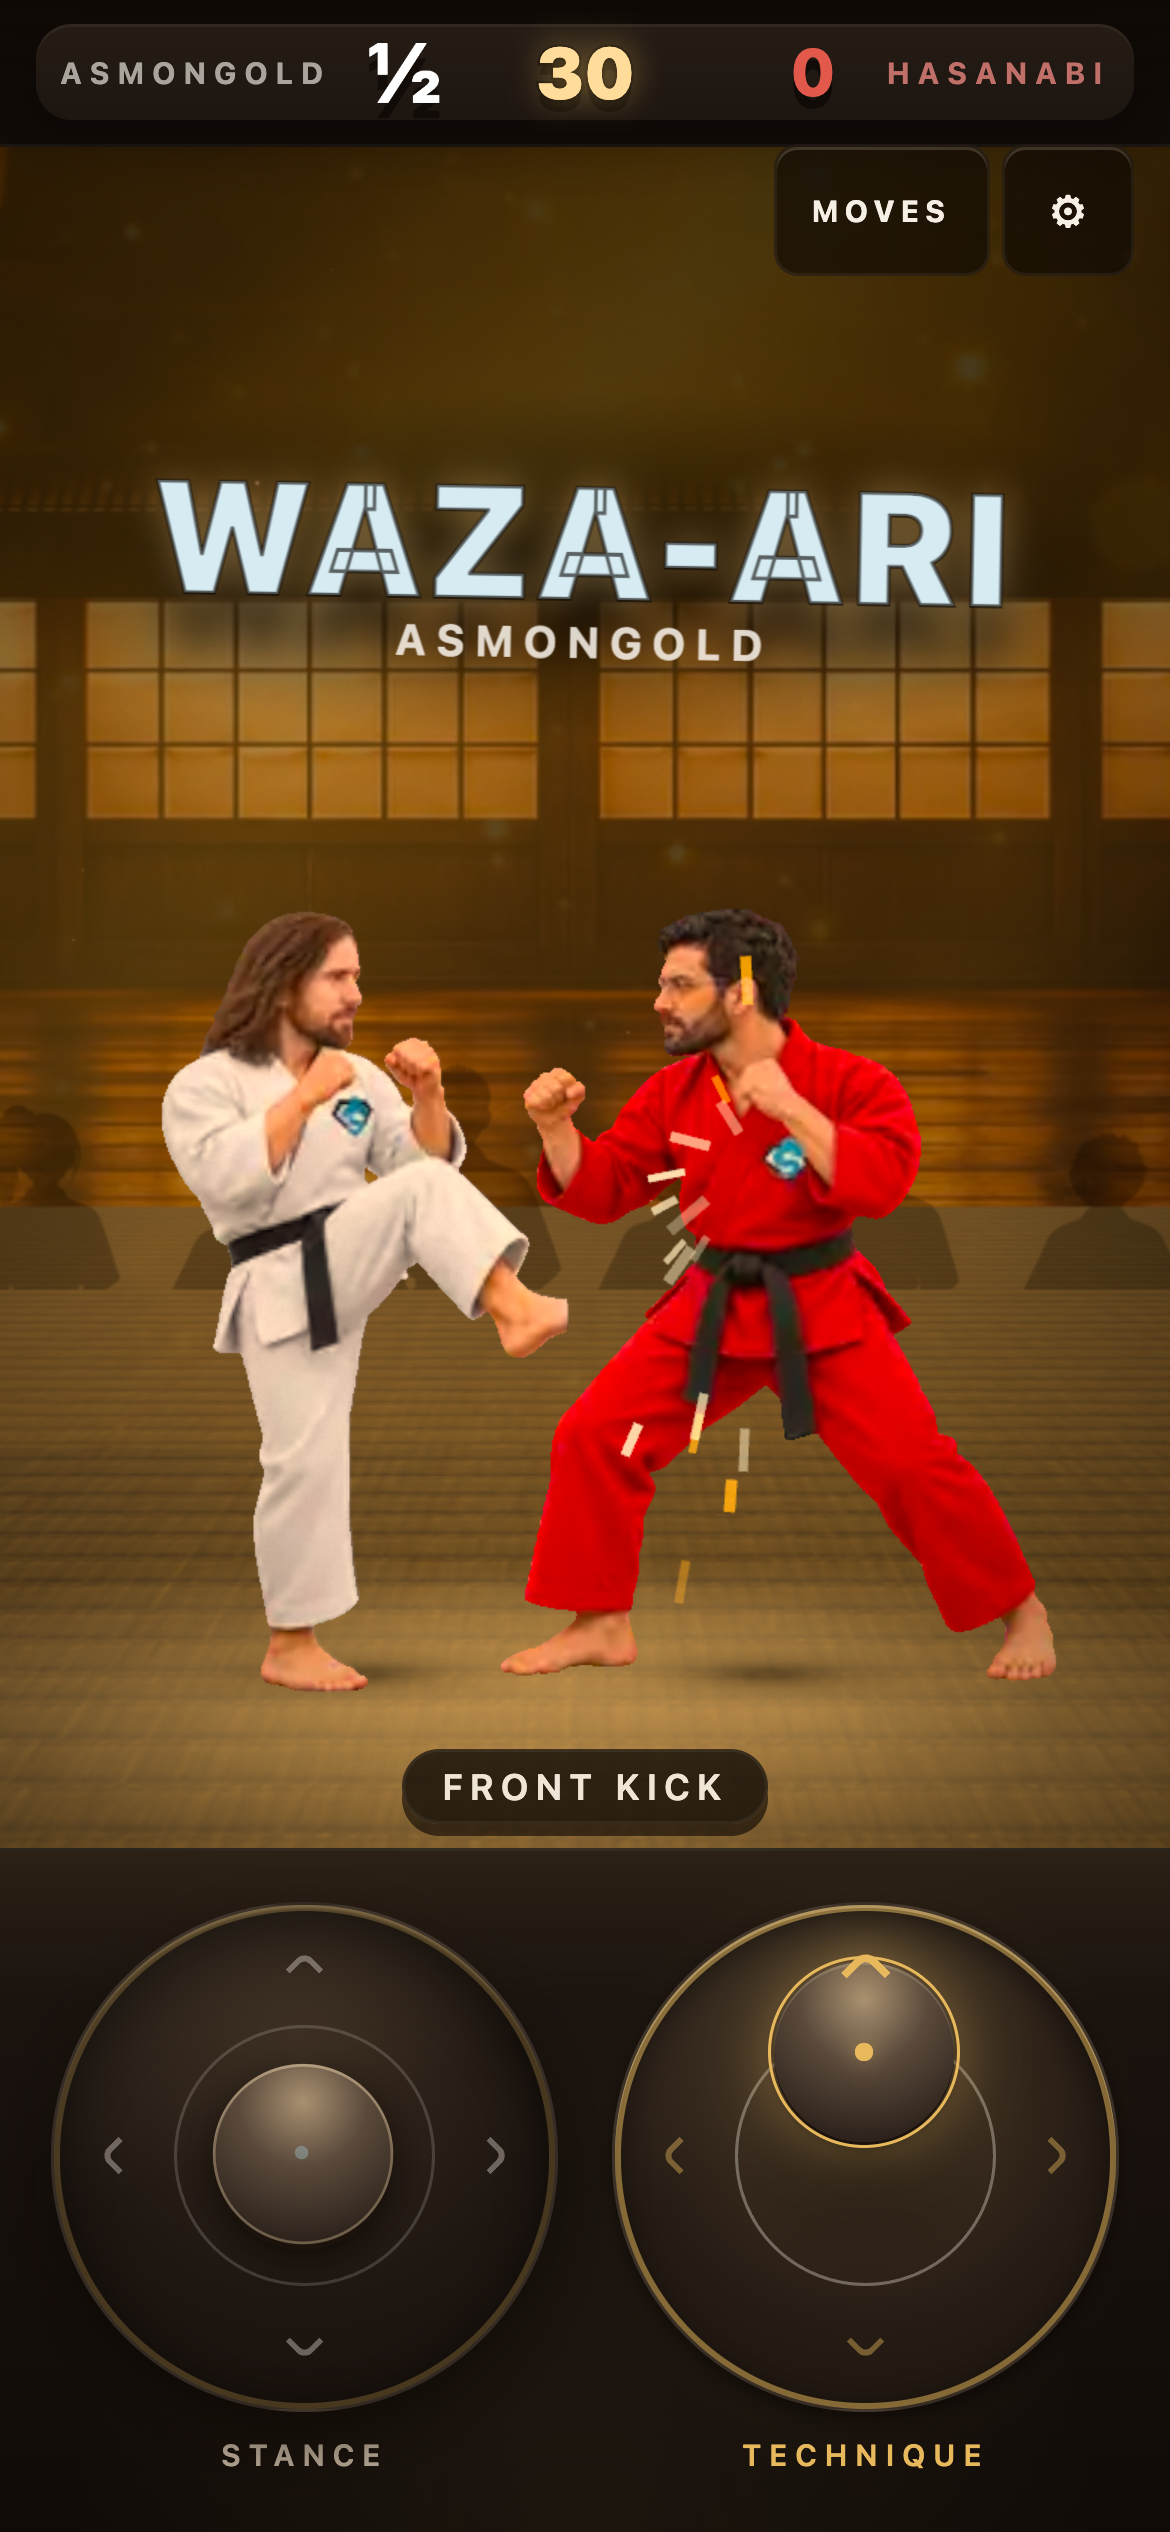
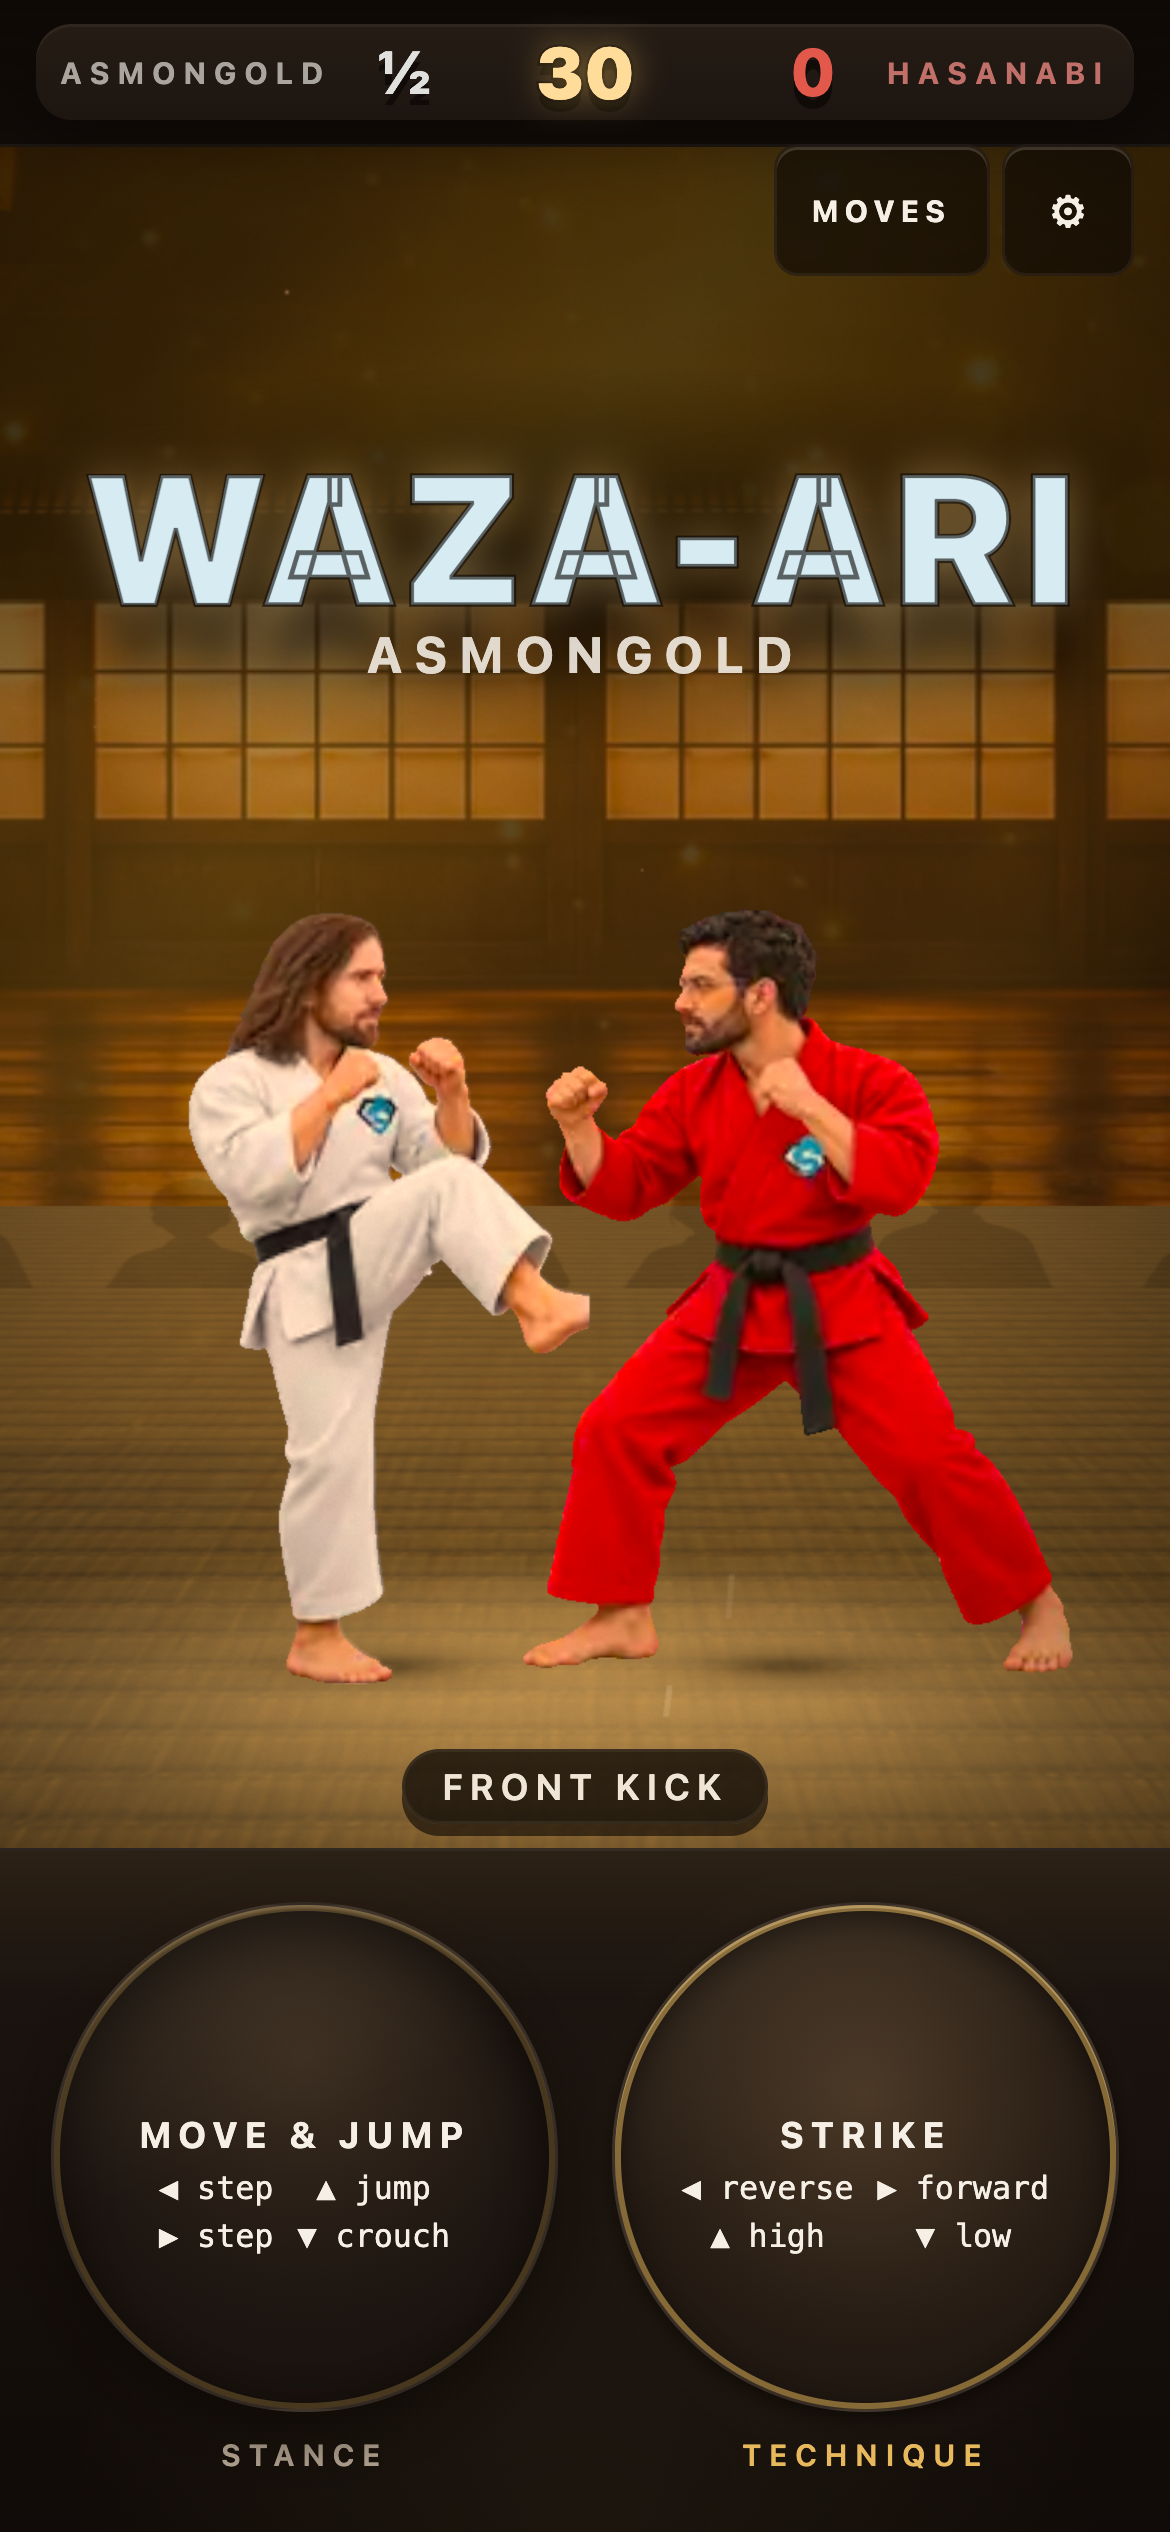
fix(ui): vision-review round 6 — crowd depth, one round statement, coach that teaches
Reviewed by moonshotai/kimi-k3.

- crowd: four models have now flagged this row, and round 2's colour fix helped
  the hue but not the depth. What sells distance is size and placement, not
  tint: the row is smaller, lower, fainter and set further back, so it reads as
  a distant gallery rather than as figures standing in the fighting plane.
- intro card: the HUD strip said "Round 1/5 · Qualifier", the headline said
  "QUALIFIER", and a kicker said "ROUND 1 OF 5" — three statements of two facts,
  stacked 60px apart, the loudest thing on a screen whose job is to start the
  fight. The kicker is gone.
- coach: retired on the first committed technique, which meant a player who had
  learned to step but never touched the technique stick lost half the lesson.
  The marks now retire once BOTH sticks have been used. The stance stick has no
  simulation event of its own — moving is not a move — so TouchInput grew an
  onEngage hook rather than the coach inferring it from move events.

Rejected, with reasons:

- `loading-no-progress-feedback` ("no percent, static hairline"). This is the
  round 5 fix being photographed. The card is in its MEASURING state, which is
  an animated sweep, and a still frame cannot show motion. The absent percent
  is deliberate: for the first four seconds of cold boot the module that would
  report a percentage has not finished downloading. A number there would be a
  lie, and a bar that once lied is worse than a bar that admits it is guessing.
[…]

diff --git a/apps/game/src/main.ts b/apps/game/src/main.ts
@@ -255,6 +255,9 @@ async function boot(screen: BootScreen): Promise<void> {
   for (const view of views) stage.scene.add(view.root);
   hud.setNames(state.fighters[0].spec.name, state.fighters[1].spec.name);
   const coach = createControlCoach();
+  // The stance stick has no simulation event of its own — moving is not a move —
+  // so the coach learns about it from the input layer instead.
+  input.touch.onEngage = (side) => coach.used(side);
   let coachOffered = false;
 
   // The last real transfer. Waiting for it here is what lets the pre-boot card
@@ -330,9 +333,12 @@ async function boot(screen: BootScreen): Promise<void> {
     for (const event of events) {
       if (event.type === 'move_start') {
         lastStarted = { player: event.player, moveId: event.moveId, tick: state.tick };
-        if (event.player === 0) hud.showTechnique(moveName(event.moveId));
-        // The first committed technique is proof the hint has landed; retire it.
-        coach.dismiss();
+        if (event.player === 0) {
+          hud.showTechnique(moveName(event.moveId));
+          // The technique stick has been used. The marks retire once both
+          // sticks have been, not on the first technique.
+          coach.used('right');
+        }
         audio.play('strike');
       } else if (event.type === 'contact') {
         const at = impactAt(event.player, event.moveId);
@@ -446,8 +452,11 @@ async function boot(screen: BootScreen): Promise<void> {
     clearBoutUi();
     held = true;
     hud.setRound(`Round ${run.round + 1}/${TOURNAMENT.length} · ${round.name}`);
+    // No kicker. The HUD strip directly above already reads "Round 1/5" and
+    // the headline below is the round's own name, so a third statement of the
+    // same two facts stacked 60px apart was pure redundancy — and it was the
+    // loudest thing on a screen whose job is to start the fight.
     hud.showResult({
-      kicker: `Round ${run.round + 1} of ${TOURNAMENT.length}`,
       headline: round.name,
       tone: 'full',
       phase: 'prefight',

diff --git a/apps/game/src/input/touch.ts b/apps/game/src/input/touch.ts
@@ -13,6 +13,9 @@ interface StickBinding {
 
 const KNOB_TRAVEL = 34;
 
+/** Which sticks have ever been grabbed, module-scoped so a rematch keeps it. */
+const sideEngaged = new Set<'left' | 'right'>();
+
 function bind(zoneId: string, stickId: string): StickBinding {
   const zone = document.getElementById(zoneId);
   const face = document.getElementById(stickId);
@@ -35,12 +38,19 @@ export class TouchInput {
   private readonly latch = new PressLatch<StickPair>();
   /** True once any real pointer has driven the pad. */
   active = false;
+  /** Called the first time each stick is actually grabbed, never before. */
+  onEngage: ((side: 'left' | 'right') => void) | null = null;
 
   constructor() {
-    for (const stick of [this.left, this.right]) this.attach(stick);
+    for (const [side, stick] of [
+      ['left', this.left],
+      ['right', this.right],
+    ] as const) {
+      this.attach(side, stick);
+    }
   }
 
-  private attach(stick: StickBinding): void {
+  private attach(side: 'left' | 'right', stick: StickBinding): void {
     const down = (event: PointerEvent): void => {
       if (stick.pointerId !== null) return;
       stick.pointerId = event.pointerId;
@@ -49,6 +59,13 @@ export class TouchInput {
       stick.zone.setPointerCapture(event.pointerId);
       stick.zone.classList.add('engaged');
       this.active = true;
+      // Fires on the first grab of this stick only, so a caller can treat it
+      // as "the player has now discovered this control" rather than "a pointer
+      // is down".
+      if (!sideEngaged.has(side)) {
+        sideEngaged.add(side);
+        this.onEngage?.(side);
+      }
       event.preventDefault();
     };
 

diff --git a/apps/game/src/coach.ts b/apps/game/src/coach.ts
@@ -18,7 +18,14 @@ export interface ControlCoach {
   /** True when this is genuinely a first run and the marks should be shown. */
   shouldShow(): boolean;
   show(): void;
-  /** Called on the first real stick input, which is the moment the hint has done its job. */
+  /**
+   * Records that a stick was used. The marks retire once BOTH have been, not
+   * on the first touch of either: a player who has learned to step but has
+   * never seen the technique stick has not finished the lesson, and retiring
+   * on the first input threw away half of it.
+   */
+  used(zone: 'left' | 'right'): void;
+  /** Force-retires the marks, for a bout that ended or a sheet that opened. */
   dismiss(): void;
 }
 
@@ -33,6 +40,7 @@ const LESSONS: ReadonlyArray<{
 
 export function createControlCoach(): ControlCoach {
   let shown = false;
+  const touched = new Set<'left' | 'right'>();
 
   const clear = (): void => {
     for (const node of document.querySelectorAll('.coach-mark')) node.remove();
@@ -40,8 +48,7 @@ export function createControlCoach(): ControlCoach {
     shown = false;
   };
 
-  const dismiss = (): void => {
-    if (!shown) return;
+  const retire = (): void => {
     clear();
     saveValue(SEEN_KEY, true);
   };
@@ -85,6 +92,12 @@ export function createControlCoach(): ControlCoach {
       document.body.classList.add('coach-active');
     },
 
-    dismiss,
+    used(zone: 'left' | 'right'): void {
+      if (!shown) return;
+      touched.add(zone);
+      if (touched.size >= 2) retire();
+    },
+
+    dismiss: retire,
   };
 }

diff --git a/apps/game/src/stage.ts b/apps/game/src/stage.ts
@@ -352,21 +352,25 @@ export class Stage {
       // it wider flattens every figure into a bowling pin, which reads as
       // blobs on the mat rather than as a distant row of people.
       const row = new Mesh(
-        new PlaneGeometry(9, 3),
+        new PlaneGeometry(11, 2.4),
         new MeshBasicMaterial({
           map: crowd,
           transparent: true,
           depthWrite: false,
-          opacity: 0.46,
+          // 0.46 read as cutouts rather than as a crowd. Four models have now
+          // flagged this row; the warmth fix in round 2 helped the colour but
+          // not the depth. What sells distance is the row being *smaller*,
+          // *lower* and *further back* than the fighters, and fainter than the
+          // mat it sits on. Big and dark at 46% put it in the fighting plane.
+          opacity: 0.3,
           toneMapped: true,
         }),
       );
       // Warm, not neutral. A MeshBasicMaterial takes no light, so the row is
       // painted with whatever colour it is given — and at a neutral brown it
-      // read as grey cutouts pasted onto a tungsten scene, the one thing in
-      // the frame that was not standing in the same room as the fighters.
+      // read as grey cutouts pasted onto a tungsten scene.
       row.material.color.set('#4a3320');
-      row.position.set(0, 0.85, CROWD_Z);
+      row.position.set(0, 0.62, CROWD_Z);
       this.scene.add(row);
     }
 
